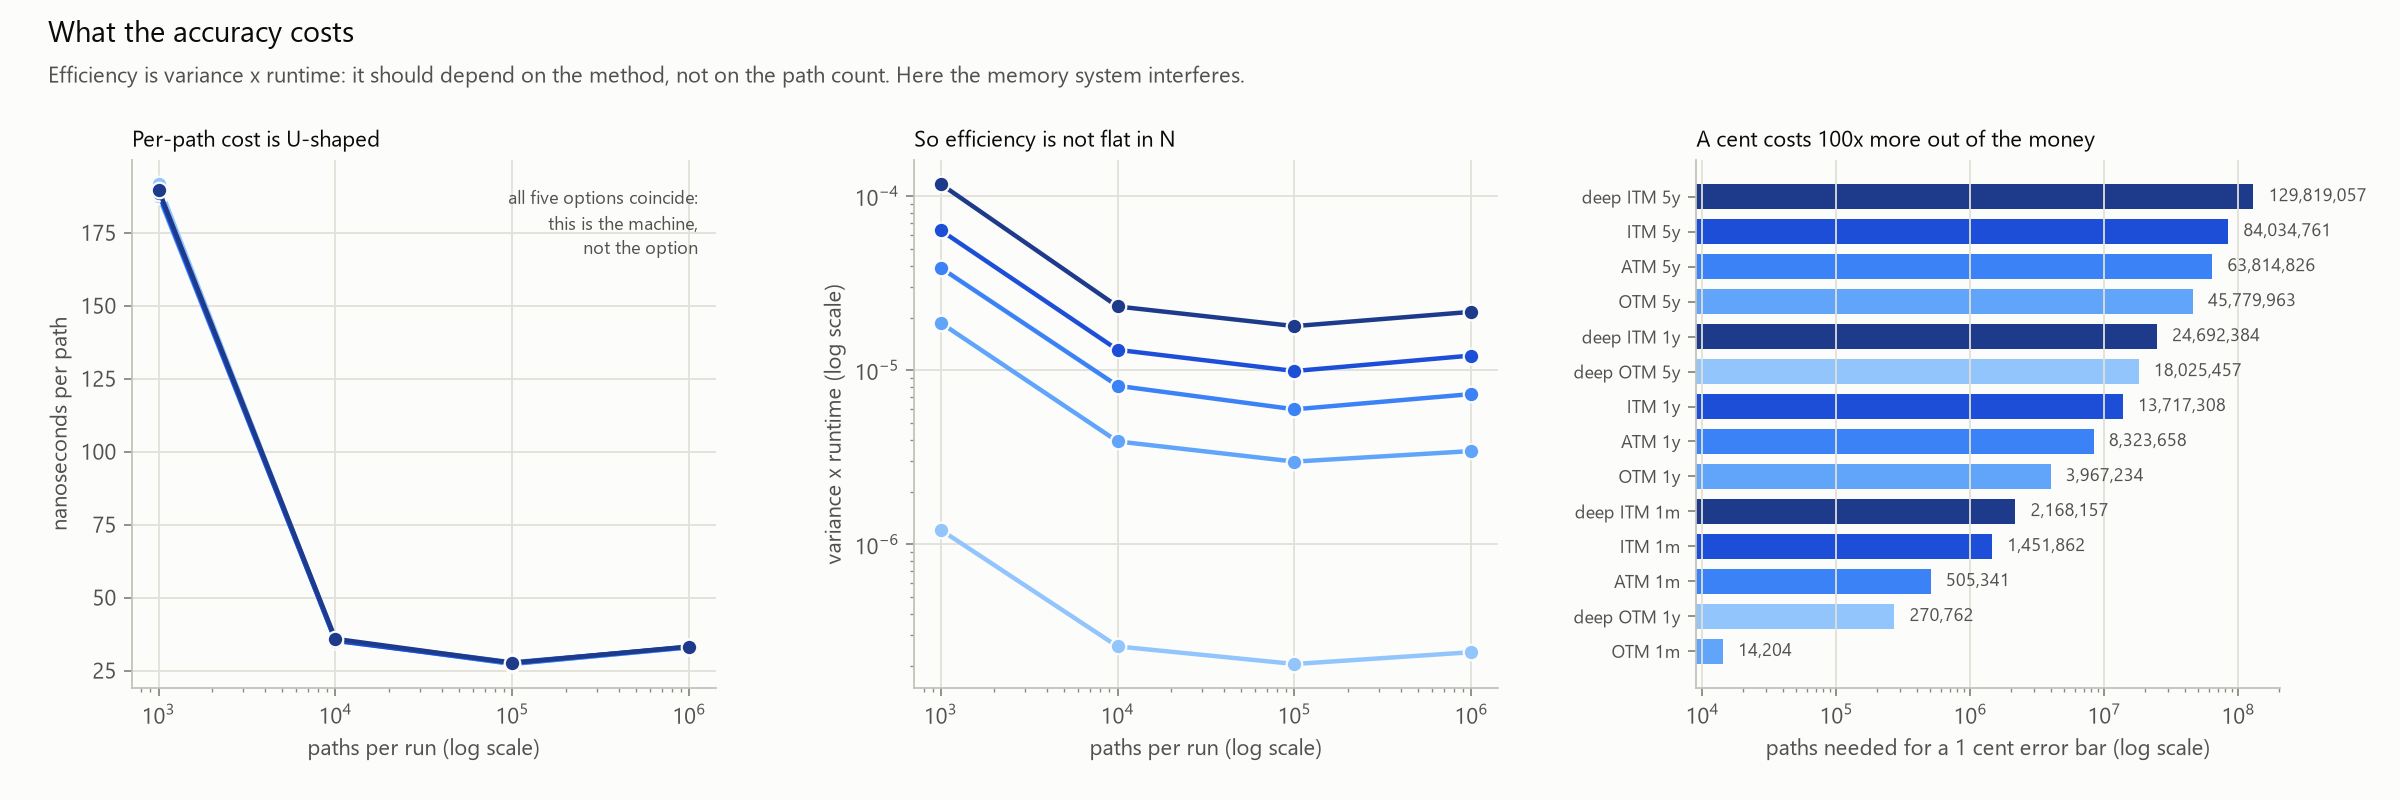
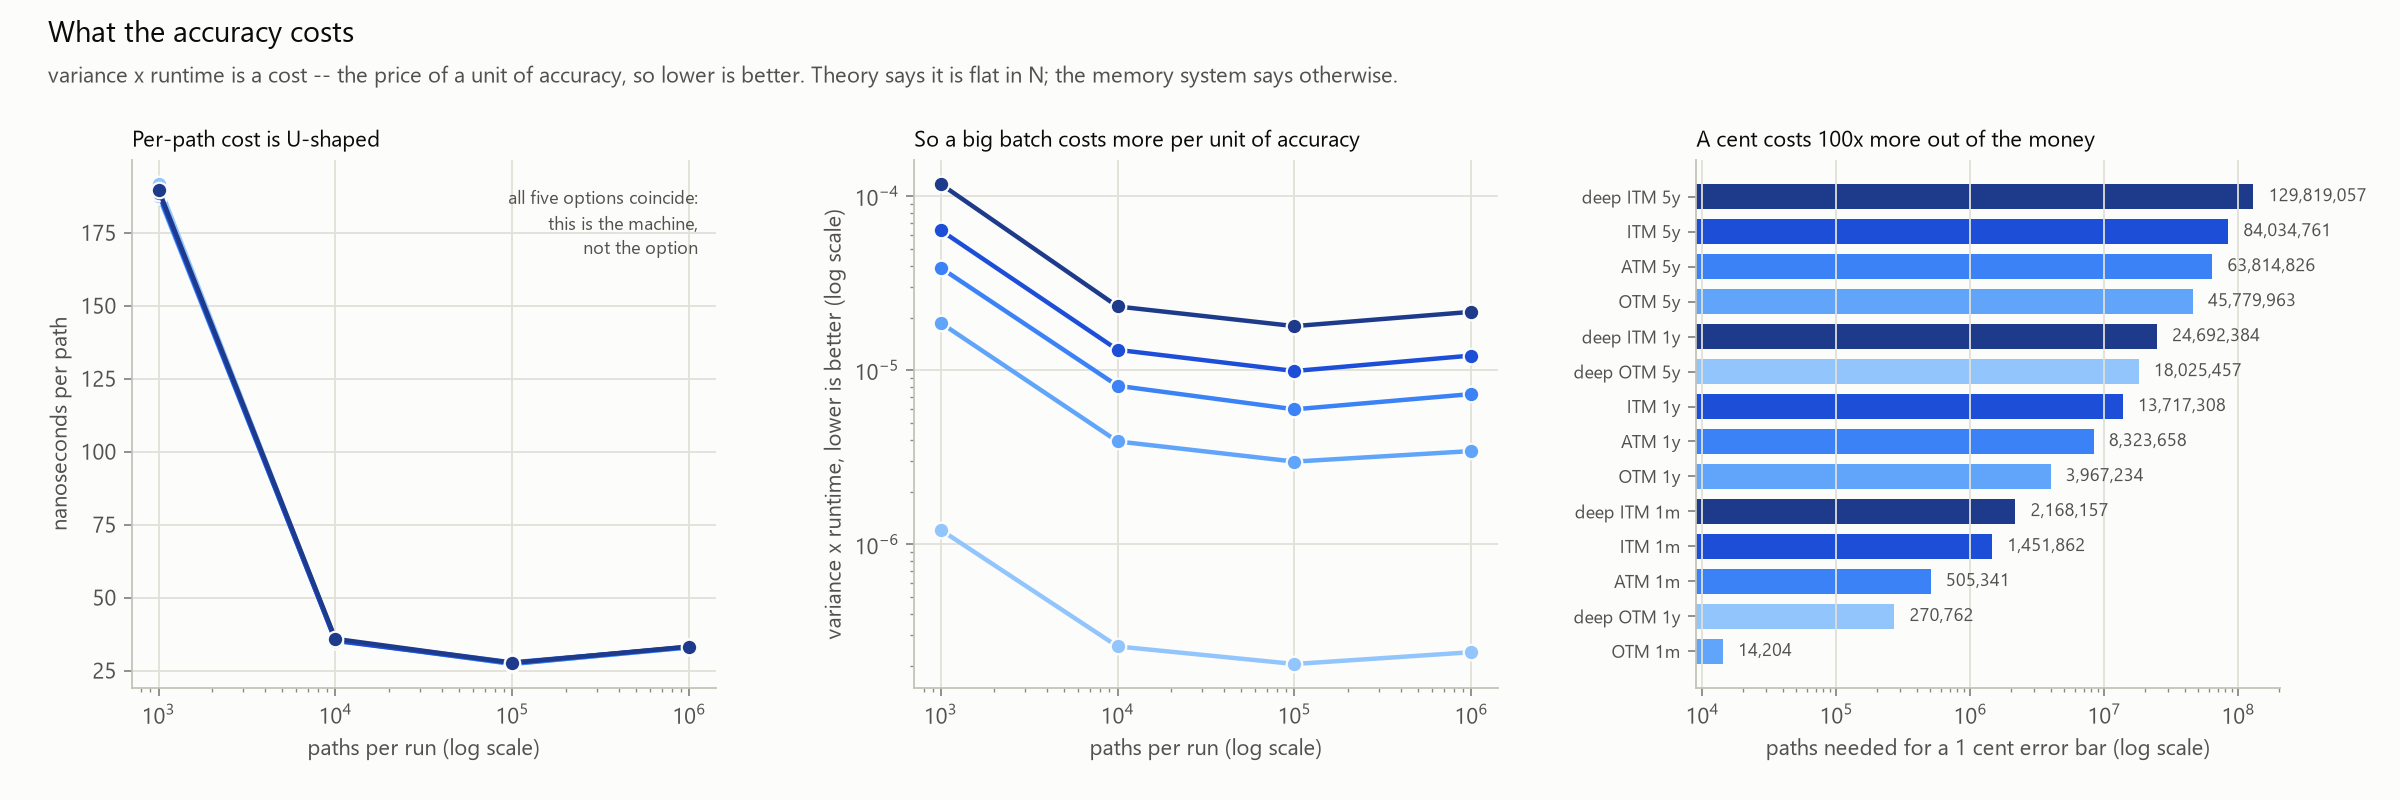
Phase 3 wording: variance x runtime is a cost, so rising means worse
The metric is the price of a unit of accuracy, so lower is better. The text
reported it climbing from 3.2e-6 to 7.7e-6 without saying that this means a
large batch buys less accuracy per second than a medium one, which reads as
neutral or even favourable. Corrected in CLAUDE.md, the README, the harness
docstring, the chart titles and the printed table; the cheapest accuracy on
this machine is around N=100,000.

diff --git a/src/experiments/harness.py b/src/experiments/harness.py
@@ -20,8 +20,8 @@ the estimator ``n_seeds`` times at each path count and reports:
   would reveal it.
 * **coverage** -- how often the 95% interval really contains the true price.
 * **runtime** -- the median over the repeated runs.
-* **efficiency** -- variance times runtime, the standard way to compare
-  estimators that trade accuracy against speed.
+* **efficiency** -- variance times runtime. This is a *cost*: the price of a
+  unit of accuracy, so lower is better and a rising number means worse.
 
 Why it is built around an estimator *function*
 -----------------------------------------------
@@ -212,18 +212,23 @@ class SeedStudy:
     def variance_times_runtime(self) -> float:
         """Efficiency: estimator variance times the time one run costs.
 
-        Lower is better. In theory this is *constant in N* -- doubling the
-        paths halves the variance and doubles the time -- which would make it a
-        property of the method rather than of the budget, and so the right
-        yardstick for comparing Phase 4's estimators against this one.
+        This is a **cost** -- what a unit of accuracy is worth paying for -- so
+        **lower is better and a rising number means the method got worse**.
+
+        In theory it is *constant in N*: doubling the paths halves the variance
+        and doubles the time. That would make it a property of the method
+        rather than of the budget, and so the right yardstick for comparing
+        Phase 4's estimators against this one.
 
         Measured here, only half of that holds. The variance does fall exactly
         like 1/N (2.06x, 2.01x, 1.90x, 2.03x per doubling from N=50,000 to
         800,000). The runtime does not rise like N: 1.95x, 3.23x, 2.81x, 2.01x
         per doubling over the same range, because somewhere past 100,000 paths
         the arrays stop fitting in cache and each path starts costing more. So
-        the product climbs from 3.2e-6 at N=100,000 to 7.7e-6 at N=400,000
-        before flattening off around 7.6e-6.
+        the cost **rises** from 3.2e-6 at N=100,000 to 7.7e-6 at N=400,000
+        before flattening off around 7.6e-6: a large batch buys less accuracy
+        per second than a medium one, and the cheapest accuracy on this machine
+        is near N=100,000.
 
         The practical consequence, and it matters for Phase 4: compare
         estimators **at the same path count**. Comparing across path counts

diff --git a/analysis/plot_phase3.py b/analysis/plot_phase3.py
@@ -261,7 +261,9 @@ def print_shape_table(rows: list) -> None:
 
 def print_efficiency_table(rows: list) -> None:
     print("\n\nEFFICIENCY AND COST")
-    print("variance x runtime should characterise the method rather than the budget.")
+    print("variance x runtime is a COST (lower is better): the price of a unit of")
+    print("accuracy. In theory it is flat in N; here it rises, so large batches are")
+    print("less efficient than medium ones.")
     print("'paths for 1 cent' is what a 95% error bar of +/-$0.01 costs.\n")
     print(f"{'option':>14} {'paths':>10} {'var x t':>11} {'ns/path':>9} "
           f"{'paths for 1c':>16} {'implied time':>13}")
@@ -500,8 +502,9 @@ def plot_efficiency(rows: list) -> None:
     fig, axes = plt.subplots(1, 3, figsize=(15.0, 5.0))
     fig.subplots_adjust(top=0.80, bottom=0.14, left=0.055, right=0.95, wspace=0.34)
     titles(fig, "What the accuracy costs",
-           "Efficiency is variance x runtime: it should depend on the method, not "
-           "on the path count. Here the memory system interferes.")
+           "variance x runtime is a cost -- the price of a unit of accuracy, so "
+           "lower is better. Theory says it is flat in N; the memory system says "
+           "otherwise.")
 
     series = one_year_calls(rows)
     runtime_ax, efficiency_ax, cost_ax = axes
@@ -533,9 +536,9 @@ def plot_efficiency(rows: list) -> None:
     efficiency_ax.set_xscale("log")
     efficiency_ax.set_yscale("log")
     efficiency_ax.set_xlabel("paths per run (log scale)")
-    efficiency_ax.set_ylabel("variance x runtime (log scale)")
-    efficiency_ax.set_title("So efficiency is not flat in N", fontsize=10, color=INK,
-                            loc="left")
+    efficiency_ax.set_ylabel("variance x runtime, lower is better (log scale)")
+    efficiency_ax.set_title("So a big batch costs more per unit of accuracy",
+                            fontsize=10, color=INK, loc="left")
 
     # Cost of a one-cent error bar, by option.
     # The deep-OTM one-month call is excluded here: every path pays zero, so its

diff --git a/analysis/run_phase3.py b/analysis/run_phase3.py
@@ -17,7 +17,8 @@ Writes:
 
 * ``mc_convergence.csv``  -- one row per (option, path count): bias, RMSE, the
   real spread across seeds, the mean reported standard error and their ratio,
-  coverage, runtime, efficiency and the paths needed for a target error.
+  coverage, runtime, cost (variance x runtime, lower is better) and the paths
+  needed for a target error.
 * ``mc_payoff_shape.csv`` -- one row per option: the skewness, excess kurtosis
   and zero fraction of its payoff distribution, which is what explains the
   coverage results.

diff --git a/CLAUDE.md b/CLAUDE.md
@@ -116,12 +116,15 @@ information. By N=100,000 the same option is back to skew −0.62 and 93.2% cove
 call, and 130M paths (3.6 s) for the deep-in-the-money five-year. One extra decimal place costs
 100× the paths, which is the whole case for Phase 4.
 
-**Efficiency is not flat in N, and the reason is the machine.** Variance falls exactly like 1/N,
-but runtime per path is U-shaped: 189 ns at N=1,000 (dominated by fixed per-call overhead),
-27 ns at N=100,000, 33 ns at N=1,000,000 (arrays no longer fitting in cache). So `variance ×
-runtime` climbs from 3.2e-6 to 7.7e-6 before flattening. **Consequence for Phase 4: compare
-estimators at the same path count.** Comparing across path counts measures the memory system as
-much as the method.
+**Efficiency gets worse at large N, and the reason is the machine.** `variance × runtime` is a
+**cost**: lower is better, because it is the price of a unit of accuracy. In theory it is flat in
+N (variance falls like 1/N, runtime rises like N). Measured, the variance half is exact but
+runtime per path is U-shaped: 189 ns at N=1,000 (dominated by fixed per-call overhead), 27 ns at
+N=100,000, 33 ns at N=1,000,000 (arrays no longer fitting in cache). So the cost **rises** from
+3.2e-6 at N=100,000 to 7.7e-6 at N=400,000 before flattening — i.e. a big batch buys *less*
+accuracy per second than a medium one. The cheapest accuracy on this machine is around
+N=100,000. **Consequence for Phase 4: compare estimators at the same path count.** Comparing
+across path counts measures the memory system as much as the method.
 
 #### Limitations
 - Measured against Black-Scholes, which exists only because these are vanilla European options.

diff --git a/README.md b/README.md
@@ -136,10 +136,12 @@ A ±1 cent 95% error bar costs **8.3M paths (0.23 s)** for the at-the-money one-
 to **130M paths (3.6 s)** deep in the money at five years. One more decimal place costs 100× the
 paths — the case for Phase 4's variance reduction.
 
-Variance falls exactly like 1/N, but runtime per path is U-shaped (189 ns at N=1,000 from fixed
-per-call overhead, 27 ns at N=100,000, 33 ns at N=1,000,000 as the arrays leave cache), so
-`variance × runtime` is *not* flat in N. Phase 4 therefore compares estimators at equal path
-counts.
+`variance × runtime` is a **cost** — the price of a unit of accuracy, so lower is better. Theory
+says it should be flat in N. It is not: variance falls exactly like 1/N, but runtime per path is
+U-shaped (189 ns at N=1,000 from fixed per-call overhead, 27 ns at N=100,000, 33 ns at
+N=1,000,000 as the arrays leave cache), so the cost *rises* from 3.2e-6 to 7.7e-6. A big batch
+buys less accuracy per second than a medium one, and the sweet spot here is around N=100,000.
+Phase 4 therefore compares estimators at equal path counts.
 
 
 ## Layout
